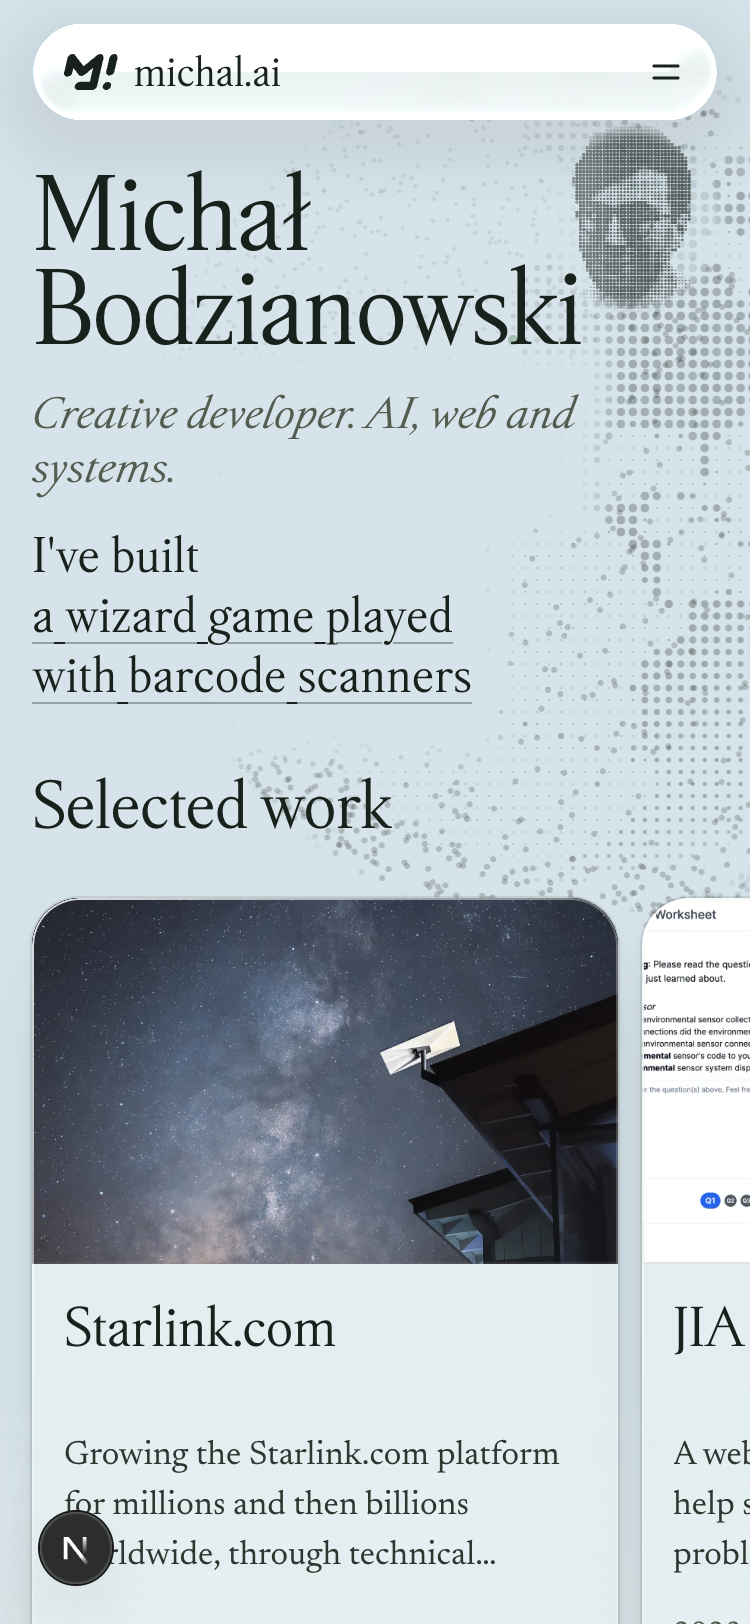
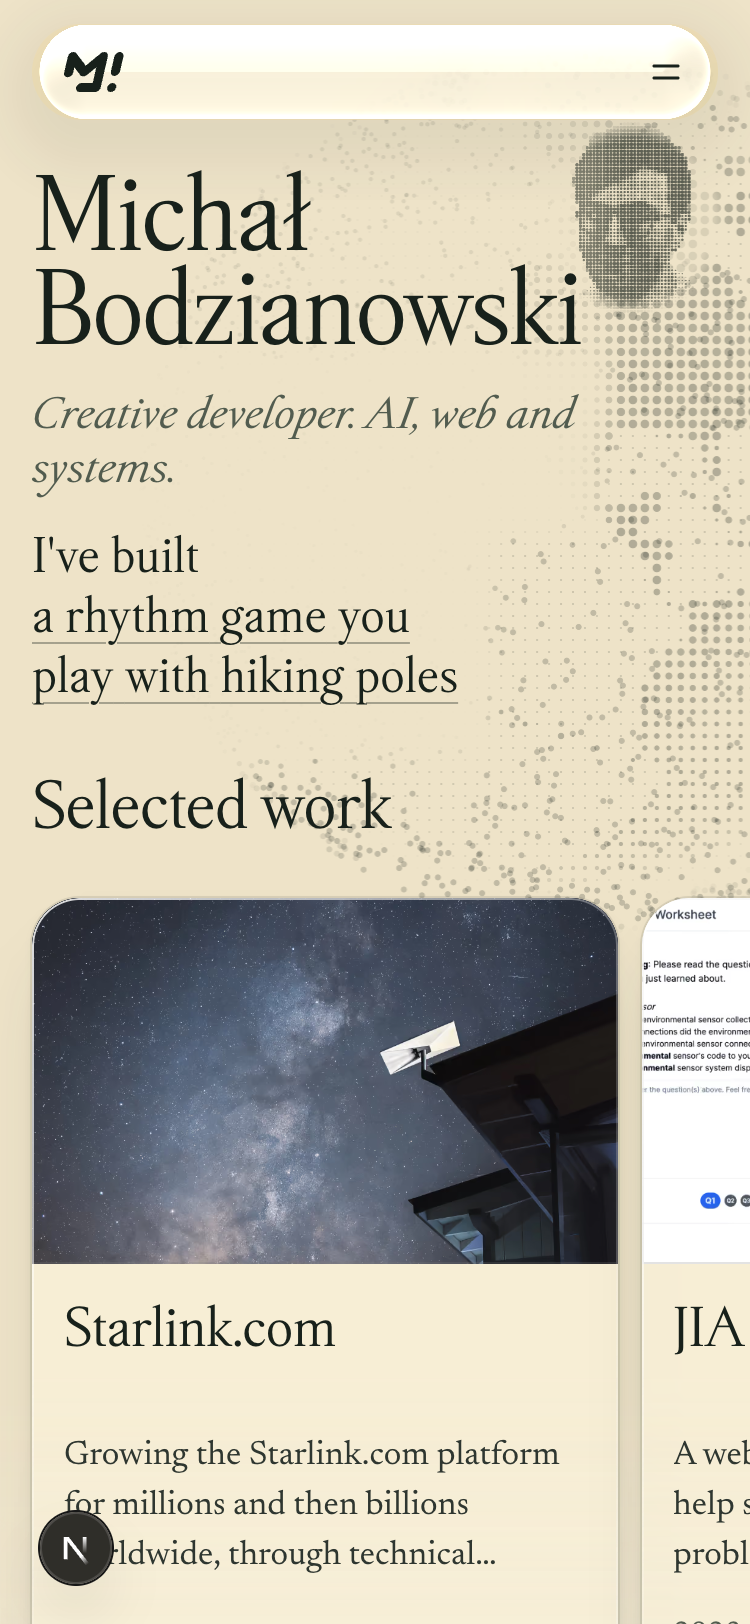
Remove home-location mark and add guard; stronger glyph portrait; DPR 1/2 shots

diff --git a/apps/michal-ai/components/presence/globe/renderer.ts b/apps/michal-ai/components/presence/globe/renderer.ts
@@ -2,15 +2,14 @@
 // One canvas, one fullscreen triangle, transparent. The sphere has no colour or texture of its own: each cell of a fixed pixel
 // grid (snapped to whole device pixels, so it never shimmers) samples the sphere at the cell centre, turns land / lambert shading /
 // limb falloff into a luminance, and draws one round dot whose radius follows it. The globe rotates underneath a stationary
-// matrix. Dots are the hero's ink colour; the page behind shows through. The only other colour is the Hawthorne cell.
+// matrix. Dots are the hero's ink colour; the page behind shows through. No other colour.
 import { toVec } from '@/lib/presence/geo'
 import type { Ring } from './data'
 
 export interface Palette {
   ink: [number, number, number]
-  accent: [number, number, number]
 }
-export const LIGHT: Palette = { ink: [0.13, 0.13, 0.11], accent: [0.24, 0.42, 0.21] }
+export const LIGHT: Palette = { ink: [0.13, 0.13, 0.11] }
 
 /** Axial tilt: the spin axis leans 23 degrees towards the upper right, so the planet reads as tilted, not as an upright map. */
 export const AXIAL_TILT = (-23 * Math.PI) / 180
@@ -80,7 +79,7 @@ void main(){ vec2 p = vec2((gl_VertexID<<1)&2, gl_VertexID&2); gl_Position = vec
 const FS = `#version 300 es
 precision highp float;
 uniform vec2 uRes; uniform float uR; uniform float uPitch; uniform mat3 uRot; uniform sampler2D uLand;
-uniform vec3 uInk; uniform vec3 uAccent; uniform vec2 uHomeCell; uniform float uHomeVis; uniform float uGlobeA;
+uniform vec3 uInk; uniform float uGlobeA;
 ${COMMON}
 out vec4 o;
 float h2(vec2 p){ return fract(sin(dot(p, vec2(127.1, 311.7))) * 43758.5453); }
@@ -115,11 +114,6 @@ void main(){
     a *= .86 + .14 * h2(cell);                 // the faintest per-cell variation
     a *= dimf;
     vec3 c = uInk;
-    if (uHomeVis > .5 && cell == uHomeCell) {
-      float ra = uPitch * .42;
-      a = (1. - smoothstep(ra - .55, ra + .55, d)) * limb;
-      c = uAccent;
-    }
     a *= uGlobeA;
     col = vec4(c * a, a);
   }
@@ -313,7 +307,7 @@ export interface GlobeRenderer {
   setSatellites(data: Float32Array | null): void
   /** Portrait picture (luminance in rgb, matte in alpha) and its glyph atlas (n glyphs side by side, lightest first). */
   setPortrait(pic: ImageBitmap | null, atlas: HTMLCanvasElement | null, glyphs: number): void
-  draw(lat0: number, lon0: number, home?: { lat: number; lon: number } | null, extra?: DrawExtra): void
+  draw(lat0: number, lon0: number, extra?: DrawExtra): void
   /** Boxes (canvas px, origin bottom-left: x0, y0, x1, y1) behind which the dots thin out, with the factor that remains (0..1). */
   setBoxes(boxes: { box: [number, number, number, number]; dim: number }[], feather: number): void
   destroy(): void
@@ -380,7 +374,7 @@ export function createRenderer(canvas: HTMLCanvasElement, rings: Ring[], palette
     const vao = g.createVertexArray()!
 
     const U = (n: string) => g.getUniformLocation(prog, n)
-    const u = { res: U('uRes'), r: U('uR'), pitch: U('uPitch'), rot: U('uRot'), land: U('uLand'), ink: U('uInk'), accent: U('uAccent'), globeA: U('uGlobeA'), homeCell: U('uHomeCell'), homeVis: U('uHomeVis'), box: U('uBox[0]'), dim: U('uDim[0]'), feather: U('uFeather'), ptr: U('uPtr'), push: U('uPush') }
+    const u = { res: U('uRes'), r: U('uR'), pitch: U('uPitch'), rot: U('uRot'), land: U('uLand'), ink: U('uInk'), globeA: U('uGlobeA'), box: U('uBox[0]'), dim: U('uDim[0]'), feather: U('uFeather'), ptr: U('uPtr'), push: U('uPush') }
     const boxes = new Float32Array(12)
     const dims = new Float32Array([1, 1, 1])
     let feather = 24
@@ -429,7 +423,7 @@ export function createRenderer(canvas: HTMLCanvasElement, rings: Ring[], palette
         g.vertexAttribPointer(1, 1, g.FLOAT, false, 20, 16)
         g.bindVertexArray(null)
       },
-      draw(lat0, lon0, home, extra = {}) {
+      draw(lat0, lon0, extra = {}) {
         const rot = rotation(lat0, lon0)
         const R = px * 0.5 * SPHERE_FRACTION
         g.clearColor(0, 0, 0, 0)
@@ -448,16 +442,6 @@ export function createRenderer(canvas: HTMLCanvasElement, rings: Ring[], palette
         g.uniform2f(u.push, push.radius, push.max)
         g.uniform1f(u.globeA, extra.globeA ?? 1)
         g.uniform3fv(u.ink, palette.ink)
-        g.uniform3fv(u.accent, palette.accent)
-        let vis = 0
-        if (home) {
-          const p = projectPoint(home.lat, home.lon, rot)
-          if (p.z > 0.25) {
-            vis = 1
-            g.uniform2f(u.homeCell, Math.floor((px / 2 + p.x * R) / pitch), Math.floor((px / 2 + p.y * R) / pitch))
-          }
-        }
-        g.uniform1f(u.homeVis, vis)
         g.activeTexture(g.TEXTURE0)
         g.bindTexture(g.TEXTURE_2D, tex)
         g.uniform1i(u.land, 0)

diff --git a/apps/michal-ai/components/presence/HeroGlobe.tsx b/apps/michal-ai/components/presence/HeroGlobe.tsx
@@ -1,7 +1,6 @@
 'use client'
 
 import { useEffect, useMemo, useRef, useState, useSyncExternalStore } from 'react'
-import { HAWTHORNE } from '@/lib/presence/constants'
 import { createPresenceClient, EMPTY_PRESENCE, type PresenceClient } from '@/lib/presence/client'
 import { PRESENCE_PINS } from '@/lib/presence/flag'
 import { createMockPresence } from '@/lib/presence/mock'
@@ -71,7 +70,7 @@ function damp(o: { x: number; v: number }, target: number, w: number, dt: number
 }
 
 interface Props {
-  /** Show small dots for live visitors and the Hawthorne mark. Defaults to the PRESENCE_PINS flag (off). */
+  /** Show small dots for live visitors. Defaults to the PRESENCE_PINS flag (off). */
   pins?: boolean
   /** Demo only: fixed made-up visitors instead of the Worker. */
   mock?: boolean
@@ -209,6 +208,8 @@ export function HeroGlobe({ pins = PRESENCE_PINS, mock = false, variant = 'slot'
     const force = new URLSearchParams(window.location.search).get('portrait')
     const dots = circle || force === 'dots' || (force !== 'glyphs' && sc < 1.4)
     const sq = circle ? cellW : Math.min(cellW, 2.4)
+    // Thin glyph strokes carry less ink than dots at the same strength.
+    if (!dots) strength = Math.min(1, strength * 1.35)
     s.pspec = {
       rect: [(left - w.left) * sc, px - (bottom - w.top) * sc, width * sc, height * sc],
       crop,
@@ -255,7 +256,7 @@ export function HeroGlobe({ pins = PRESENCE_PINS, mock = false, variant = 'slot'
     const sat = s.sat
     const nowS = Date.now() / 1000
     const satAlpha = sat ? SAT_ALPHA * (s.reduced ? 1 : Math.min(1, (now - s.satFrom) / SAT_FADE_MS)) : 0
-    s.r?.draw(lat, lon, HAWTHORNE, {
+    s.r?.draw(lat, lon, {
       satT: sat ? nowS - sat.refEpoch : 0,
       gmst: sat ? gmst(nowS) : 0,
       satAlpha,
@@ -317,7 +318,7 @@ export function HeroGlobe({ pins = PRESENCE_PINS, mock = false, variant = 'slot'
         // The hero's own ink colour, so the dots take the surface they sit on (opacity does the rest).
         const m = /rgba?\(([\d.]+)[ ,]+([\d.]+)[ ,]+([\d.]+)/.exec(getComputedStyle(wrap.current!).color)
         const ink: [number, number, number] = m ? [+m[1] / 255, +m[2] / 255, +m[3] / 255] : [0.13, 0.13, 0.11]
-        const r = createRenderer(canvas.current, rings, { ink, accent: [0.24, 0.42, 0.21] })
+        const r = createRenderer(canvas.current, rings, { ink })
         if (!r) return setMode('fallback')
         st.current.r = r
         r.resize(st.current.size || 300, st.current.dpr)

diff --git a/apps/michal-ai/lib/presence/__tests__/presence.test.ts b/apps/michal-ai/lib/presence/__tests__/presence.test.ts
@@ -14,7 +14,7 @@ const SID = 'abcdefghijklmnop1234'
 
 describe('geo', () => {
   it('snaps to the 0.5 degree grid', () => {
-    expect(snap(33.9164, -118.3526)).toEqual({ lat: 34, lon: -118.5 })
+    expect(snap(39.7392, -104.9903)).toEqual({ lat: 39.5, lon: -105 })
     expect(snap(51.5074, -0.1278)).toEqual({ lat: 51.5, lon: 0 })
   })
   it('rejects non-finite and out-of-range input', () => {
@@ -33,9 +33,9 @@ describe('geo', () => {
     }
   })
   it('public points stay inside the snapped cell and never reveal the true point', () => {
-    const p = publicPoint(33.9164, -118.3526, 'id1')!
-    expect(Math.abs(p.lat - 34)).toBeLessThanOrEqual(0.25)
-    expect(Math.abs(p.lon + 118.5)).toBeLessThanOrEqual(0.25)
+    const p = publicPoint(39.7392, -104.9903, 'id1')!
+    expect(Math.abs(p.lat - 39.5)).toBeLessThanOrEqual(0.25)
+    expect(Math.abs(p.lon + 105)).toBeLessThanOrEqual(0.25)
     // decimals are capped
     expect(String(p.lat).split('.')[1]?.length ?? 0).toBeLessThanOrEqual(2)
   })

diff --git a/apps/michal-ai/lib/__tests__/location-guard.test.ts b/apps/michal-ai/lib/__tests__/location-guard.test.ts
@@ -1,0 +1,15 @@
+import path from 'node:path'
+import { describe, expect, it } from 'vitest'
+import { findForbidden, scanRepo } from '../../../../scripts/location-guard.mjs'
+
+describe('location guard', () => {
+  it('flags the city name in any case and the coordinates, and nothing generic', () => {
+    expect(findForbidden(['Haw', 'thorne, CA'].join(''))).toHaveLength(1)
+    expect(findForbidden(['HAW', 'THORNE'].join(''))).toHaveLength(1)
+    expect(findForbidden('lat: ' + ['33.91', '64'].join(''))).toHaveLength(1)
+    expect(findForbidden('Denver, Seattle, Los Angeles, California')).toEqual([])
+  })
+  it('the repo is clean', () => {
+    expect(scanRepo(path.resolve(__dirname, '../../../..'))).toEqual([])
+  })
+})

diff --git a/apps/michal-ai/lib/presence/flag.ts b/apps/michal-ai/lib/presence/flag.ts
@@ -11,7 +11,7 @@ export const LIVE_REACTIONS_ENABLED = true
 export const LIVE_BLOCK_REACTIONS = false
 
 /**
- * Decorative dots on the hero globe: live visitors and the Hawthorne mark. Off by default so the globe ships without the realtime
+ * Decorative dots on the hero globe: live visitors. Off by default so the globe ships without the realtime
  * backend (the globe itself renders from static data and needs no network beyond /globe/land.bin).
  */
 export const PRESENCE_PINS = false

diff --git a/apps/michal-ai/lib/presence/constants.ts b/apps/michal-ai/lib/presence/constants.ts
@@ -26,9 +26,6 @@ export const REACTIONS = [
 export type ReactionId = (typeof REACTIONS)[number]['id']
 export const REACTION_IDS: readonly string[] = REACTIONS.map((e) => e.id)
 
-/** The owner. Always marked on the globe. */
-export const HAWTHORNE = { lat: 33.9164, lon: -118.3526, label: 'Hawthorne, CA' } as const
-
 export const LIVE_LIMITS = {
   /** Snap grid in degrees (~55 km). */
   gridDeg: 0.5,

diff --git a/apps/michal-ai/docs/presence.md b/apps/michal-ai/docs/presence.md
@@ -5,7 +5,7 @@ Two independent features, both dark by default (`lib/presence/flag.ts`):
 | Feature | Flag | Default | Needs backend |
 | --- | --- | --- | --- |
 | `HeroGlobe` (decorative background globe) | none; the component is simply not placed yet | not placed | no |
-| Globe dots (live visitors + Hawthorne) | `PRESENCE_PINS` | off | yes |
+| Globe dots (live visitors) | `PRESENCE_PINS` | off | yes |
 | Article reactions row + view count | `LIVE_REACTIONS_ENABLED` | **on** (see `docs/live-reactions-views.md`) | yes |
 | Paragraph reactions | `LIVE_BLOCK_REACTIONS` (+ Worker var) | off | yes |
 
@@ -15,7 +15,7 @@ Kill switch for all `/api/live/*` routes: set the Worker var `LIVE_KILL=1` (ever
 
 `components/presence/HeroGlobe.tsx`, placed in the homepage hero slot (`app/page.tsx`, `data-hero-slot="background"`) and nowhere else. Lab: `/presence` under `next dev` (`?mock=1`, `?pins=1`, `?full=1`).
 
-- Look: the sphere has no fill or texture of its own. A fixed screen-space dot matrix (5 CSS px pitch under 420px wide, 6 above, snapped to whole device pixels so it never shimmers) samples an analytically rendered sphere at each cell centre. Land is a large round dot, ocean a pin-prick, lambert shading toward the upper left with a soft terminator, dots fade to nothing toward the limb and the canvas keeps a 6% margin, so there is no edge anywhere. The globe rotates underneath the stationary grid at 2.4 degrees/second. Dots are the hero's own ink colour (read from computed `color`), opacity 0.28 via `--hero-globe-opacity-slot`, so the tint cross-fade behind shows through. The only other colour is one green cell for Hawthorne, CA (33.9164 N, 118.3526 W). No scanlines, glow, curvature or flicker; the only "terminal" touch is a 14% per-cell alpha variation.
+- Look: the sphere has no fill or texture of its own. A fixed screen-space dot matrix (5 CSS px pitch under 420px wide, 6 above, snapped to whole device pixels so it never shimmers) samples an analytically rendered sphere at each cell centre. Land is a large round dot, ocean a pin-prick, lambert shading toward the upper left with a soft terminator, dots fade to nothing toward the limb and the canvas keeps a 6% margin, so there is no edge anywhere. The globe rotates underneath the stationary grid at 2.4 degrees/second. Dots are the hero's own ink colour (read from computed `color`), opacity 0.28 via `--hero-globe-opacity-slot`, so the tint cross-fade behind shows through. There is no other colour. No scanlines, glow, curvature or flicker; the only "terminal" touch is a 14% per-cell alpha variation.
 - Placement (`slot` variant, default): hidden below 768px (at 375px the name block, tagline, rotating line and card row fill the hero, so there is no free area; this is a decision, change the media query to show it). From 768px: `width:min(34vw,420px); right:3vw; top:96px`, so it ends about 516px down, above the first card row (about 596px at 1440), and is never clipped by the slot or the next section. Checked at 768, 1024 and 1440 in headless Chrome; 1920 uses the same 420px cap; 375 hides it. Not checked: the shortest/tallest hero heights and a two-line rotating line beyond the 768 shot (it wraps there and does not touch the globe).
 - Other variants: `bleed` (runs off the right/top edge; the parent must clip) and `full` (fills the parent as a square). Not used on the homepage.
 - Non-interactive: `pointer-events:none`, `aria-hidden`, nothing focusable. Draws only within 120px of the viewport with the tab visible; DPR cap 2; `prefers-reduced-motion` draws one frame. Without WebGL2 (and before it is ready) a PNG of the shader's own output shows (`public/globe/fallback.png`, 26 KB, regenerate with `node scripts/capture-globe-still.mjs` against `next dev`).
@@ -95,7 +95,7 @@ Insertion point: one marked line in `components/content/PostPage.tsx` `after` bl
 
 ## Verification run
 
-Unit tests: geo snapping/jitter, validation, rate limiter, reaction toggling, history capping/dedupe, block ids, slug drift (`lib/presence/__tests__/presence.test.ts`). Against `wrangler dev --local` (script outside the repo): reactions on/duplicate/off/second session counts 1,1,2,1; unknown slug 404, bad origin 403, no origin 403, bad emoji 400, bad type 415, oversize 413, bad JSON 400, wrong method 405, rate limit 429 after about 22 writes in a minute; presence with two sockets saw each other's join, emoji change and leave, the fourth socket from one IP got 429, a bad Origin got 403, a non-upgrade got 426. Not verified: two independent browser contexts with different locations (local `request.cf` is the dev machine's, always Hawthorne), kill switch (code path is a one-line early return, only reasoned), reduced-motion rendering in a real browser, hover and tap on paragraph reactions beyond a static look, a real deploy. The in-memory mock reaction store is unit tested; the SQLite store is only exercised by the curl script above.
+Unit tests: geo snapping/jitter, validation, rate limiter, reaction toggling, history capping/dedupe, block ids, slug drift (`lib/presence/__tests__/presence.test.ts`). Against `wrangler dev --local` (script outside the repo): reactions on/duplicate/off/second session counts 1,1,2,1; unknown slug 404, bad origin 403, no origin 403, bad emoji 400, bad type 415, oversize 413, bad JSON 400, wrong method 405, rate limit 429 after about 22 writes in a minute; presence with two sockets saw each other's join, emoji change and leave, the fourth socket from one IP got 429, a bad Origin got 403, a non-upgrade got 426. Not verified: two independent browser contexts with different locations (local `request.cf` is the dev machine's), kill switch (code path is a one-line early return, only reasoned), reduced-motion rendering in a real browser, hover and tap on paragraph reactions beyond a static look, a real deploy. The in-memory mock reaction store is unit tested; the SQLite store is only exercised by the curl script above.
 
 Screenshots: `docs/presence-shots/desktop-1440.png`, `mobile-375.png` (device metrics emulation 375x812 at 3x), `globe-zoom.png` (3x). Ours-vs-reference crops: not produced; the reference sites could not be screenshotted in this environment (the browser pane cannot save images to files).
 
@@ -140,4 +140,4 @@ A figure of the owner in the same canvas, rendered as monospace glyphs (desktop)
 
 ## My view of the globe
 
-The calm dot globe reads clean and professional in the zoom crop, and the Hawthorne dot lands on the California coast. It is also generic: it looks like any point globe. It is deliberately not "sketched"; the earlier ink/hatch version had no professional precedent and was dropped on instruction. The poles show convergence streaks of graticule lines, the outline is a little heavier than the dots, and dot size does not shrink with foreshortening near the limb as much as a polished version would. Not yet compared against a studied reference.
+The calm dot globe reads clean and professional in the zoom crop, and It is also generic: it looks like any point globe. It is deliberately not "sketched"; the earlier ink/hatch version had no professional precedent and was dropped on instruction. The poles show convergence streaks of graticule lines, the outline is a little heavier than the dots, and dot size does not shrink with foreshortening near the limb as much as a polished version would. Not yet compared against a studied reference.

diff --git a/apps/michal-ai/docs/design-system/mood.md b/apps/michal-ai/docs/design-system/mood.md
@@ -173,7 +173,7 @@ Motion is slow, tiny, few, and always optional.
 ## Signature moments, ranked
 
 1. **The pressed lupine arrives (prototyped).** On first load, a real engraved lupine fades up over 2.8s behind the huge serif name, then sways a hair; scrolling lets it drift a few pixels behind the page. Why first: it delivers floral, Apple-clean, ephemeral and cohesive in one calm object, costs about 100KB, needs no JavaScript, and works on a phone.
-2. **The avatar walks the globe.** The Mii-style toy Michał strolls from Hawthorne, CA across a quiet globe, visitors appear as cute ghosts, and a ghost can high-five him. This is the natural delight the owner asked for: it is the one playful, human thing, so everything around it stays still. Keep it on its own screen with the plates and sprigs absent; light only, soft sky wash behind, no dot field. Respect interruption: a touch redirects his walk from where he is; the high-five has a hint of bounce because the user imparted the gesture.
+2. **The avatar walks the globe.** The Mii-style toy Michał strolls from California across a quiet globe, visitors appear as cute ghosts, and a ghost can high-five him. This is the natural delight the owner asked for: it is the one playful, human thing, so everything around it stays still. Keep it on its own screen with the plates and sprigs absent; light only, soft sky wash behind, no dot field. Respect interruption: a touch redirects his walk from where he is; the high-five has a hint of bounce because the user imparted the gesture.
 3. **Images resolve like stipple on paper.** As each featured photo enters view, it resolves from pollen-like points into the photograph with a feathered, irregular edge, once, in under 2.4s, then rests. The lidar idea survives only here, and only as engraving-like stipple.
 
 ## What changes in the existing law (proposed)

diff --git a/apps/michal-ai/docs/content-review/linkedin-source.md b/apps/michal-ai/docs/content-review/linkedin-source.md
@@ -15,7 +15,7 @@ as well as UI/UX design, 3D/VR/AR development, and AI/ML integrations.
 
 ## Experience
 
-### Software Engineer — SpaceX (full-time), Apr 2024 – present, Hawthorne, California
+### Software Engineer — SpaceX (full-time), Apr 2024 – present, California
 
 Growing the Starlink.com platform for millions and then billions worldwide, through technical
 excellence and collaboration with business stakeholders.
